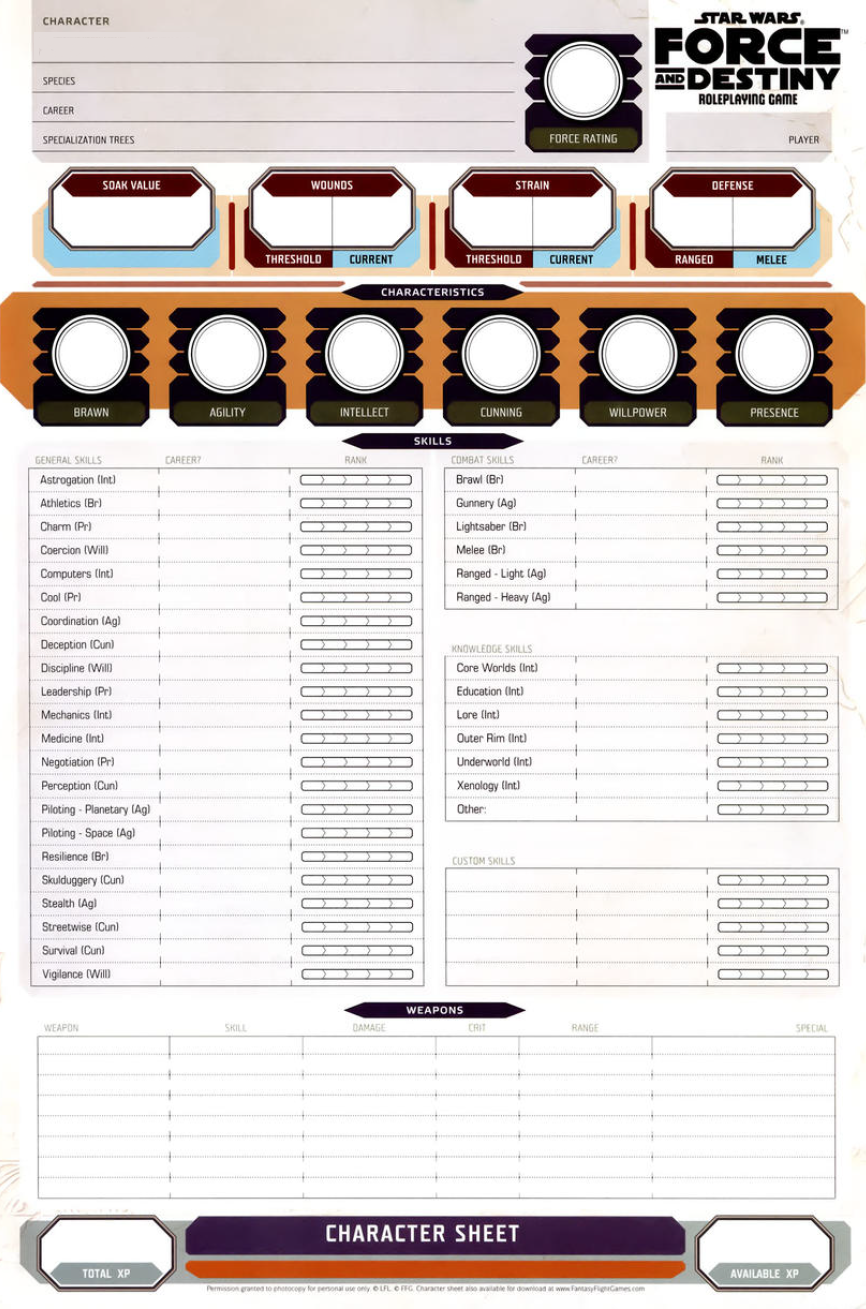
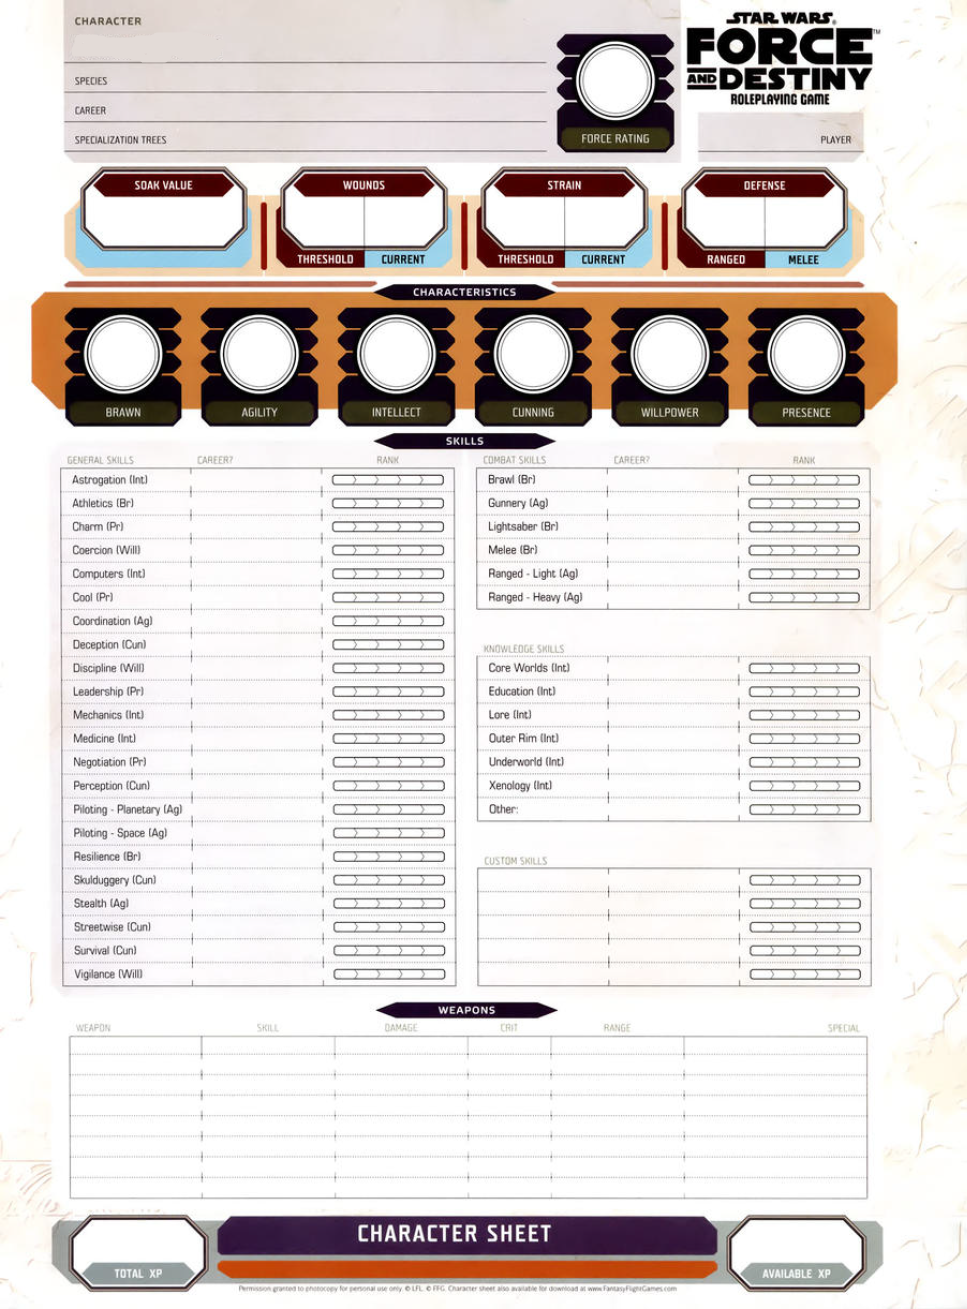
Working on dynamic rendering

diff --git a/src/index.js b/src/index.js
@@ -2,6 +2,8 @@ import React, { useState, useEffect } from "react"
 import ReactDOM from 'react-dom'
 import './characterSheet.css'
 import page1 from './data/Page1.png'
+import Niman from './data/Niman.png'
+import Healer from './data/Healer.png'
 import { MenuItem, Button, Dialog, DialogTitle, DialogContent, FormControlLabel, Checkbox, Box, TextField, Select } from "@mui/material"
 //import page2 from './data/Page2.png'
 
@@ -20,6 +22,7 @@ function CharacterSheet() {
     const speciesList = ['Cerean', 'Human', 'Kel Dor', 'Mirialan', 'Nautolan', 'Togruta', 'Twi\'lek', 'Zabrak']
     const careerList = ['Consular', 'Guardian', 'Mystic', 'Seeker', 'Sentinel', 'Warrior']
     const speclist = ['Healer','Niman Disciple']
+    const specimages = {'Healer':Healer,'Niman Disciple':Niman}
     
     useEffect(() => {determineCharacteristics()}, [species]);
 
@@ -77,9 +80,17 @@ function CharacterSheet() {
         return stat
     }
 
-    function handleAddSpecialization(newSpec) {
-        const newSpecList = [...specialization, newSpec]
-        updateSpecialization(newSpecList)
+    function handleUpdateSpecialization(event) {
+        const selectedOption = event.target.value
+        const isChecked = event.target.checked
+        let updatedList = []
+
+        if (isChecked) {
+            updatedList = [...specialization, selectedOption]
+        } else {
+            updatedList = specialization.filter((option) => (option) !== selectedOption)
+        }
+        updateSpecialization(updatedList)
     }
 
     return(
@@ -90,7 +101,7 @@ function CharacterSheet() {
                 <div className="text-overlay name"> <TextField variant = "standard" onChange = {(event) => updateName(event.target.value)} /></div>
                 <div className="text-overlay species"><Dropdown value={species} options={speciesList} onChange= {(event) => handleSpeciesSelect(event.target.value)} /></div>
                 <div className="text-overlay career"><Dropdown value={career} options={careerList} onChange= {(event) => updateCareer(event.target.value)} /></div>
-                <div className="text-overlay specializations"><CheckboxPopup value={specialization} options={speclist} onChange= {(event) => handleAddSpecialization(event)} /></div>
+                <div className="text-overlay specializations"><CheckboxPopup value={specialization} options={speclist} onChange= {(event) => handleUpdateSpecialization(event)} /></div>
                 <div className="text-overlay force-rating">1</div>
                 <div className="text-overlay brawn" style={{ userSelect: "none" }} onClick = {() => updateCharacteristic(brawn, updateBrawn)}>{brawn}</div>
                 <div className="text-overlay agility" style={{ userSelect: "none" }} onClick = {() => updateCharacteristic(agility, updateAgility)}>{agility}</div>
@@ -98,6 +109,7 @@ function CharacterSheet() {
                 <div className="text-overlay cunning" style={{ userSelect: "none" }} onClick = {() => updateCharacteristic(cunning, updateCunning)}>{cunning}</div>
                 <div className="text-overlay willpower" style={{ userSelect: "none" }} onClick = {() => updateCharacteristic(willpower, updateWillpower)}>{willpower}</div>
                 <div className="text-overlay presence"style={{ userSelect: "none" }} onClick = {() => updateCharacteristic(presence, updatePresence)}>{presence}</div> 
+                <div>{specialization.map((spec => (<img key={spec} src={specimages[spec]} alt={spec} />)))} </div>
             </div>
         </div>
     )
@@ -105,6 +117,7 @@ function CharacterSheet() {
 
 function CheckboxPopup({value, options, onChange}) {
     const [open, setOpen] = useState(false)
+    const [previous, setPrevious] = useState(value)
     const handleOpen = () => {
         setOpen(true)
     }
@@ -112,14 +125,16 @@ function CheckboxPopup({value, options, onChange}) {
         setOpen(false)
     }
     const handleChange = (event) => {
-        const selectedOptions = event.target.value;
-        onChange(selectedOptions)
+        if (previous.includes(event.target.value)) {
+            return
+        }
+        onChange(event)
     }
-    const display = value.join(" ")
+    const display = value.join(", ")
 
     return (
         <div>
-          <Button variant="standard" onClick={handleOpen}>
+          <Button variant="contained" onClick={handleOpen}>
             {display}
             </Button>
     

diff --git a/src/characterSheet.css b/src/characterSheet.css
@@ -3,8 +3,7 @@
   src: url('./data/Starjedi.ttf') format('truetype');
 }
 .character-sheet {
-  width: 100%;
-  max-width: 800px;
+  width: 800px;
   margin: 0 auto;
   padding: 20px;
   background-color: #f0f0f0;
@@ -12,7 +11,7 @@
   }
   
   .page-container {
-    position: relative;
+    position: absolute;
     display: inline-block;
     margin-bottom: 20px;
   }
@@ -29,22 +28,22 @@
   }
   
   .submit{
-    top: 0%;
-    left: 50%;
+    top: 0px;
+    left: 400px;
   }
   .name {
-    top: 1.6%;
-    left: 5%;
+    top: 30px;
+    left: 40px;
   }
   
   .species {
-    top: 3.7%;
-    left: 10%;
+    top: 49px;
+    left: 80px;
   }
   
   .career {
-    top: 6%;
-    left: 10%;
+    top: 77px;
+    left: 80px;
   }
 
   .force-rating {
